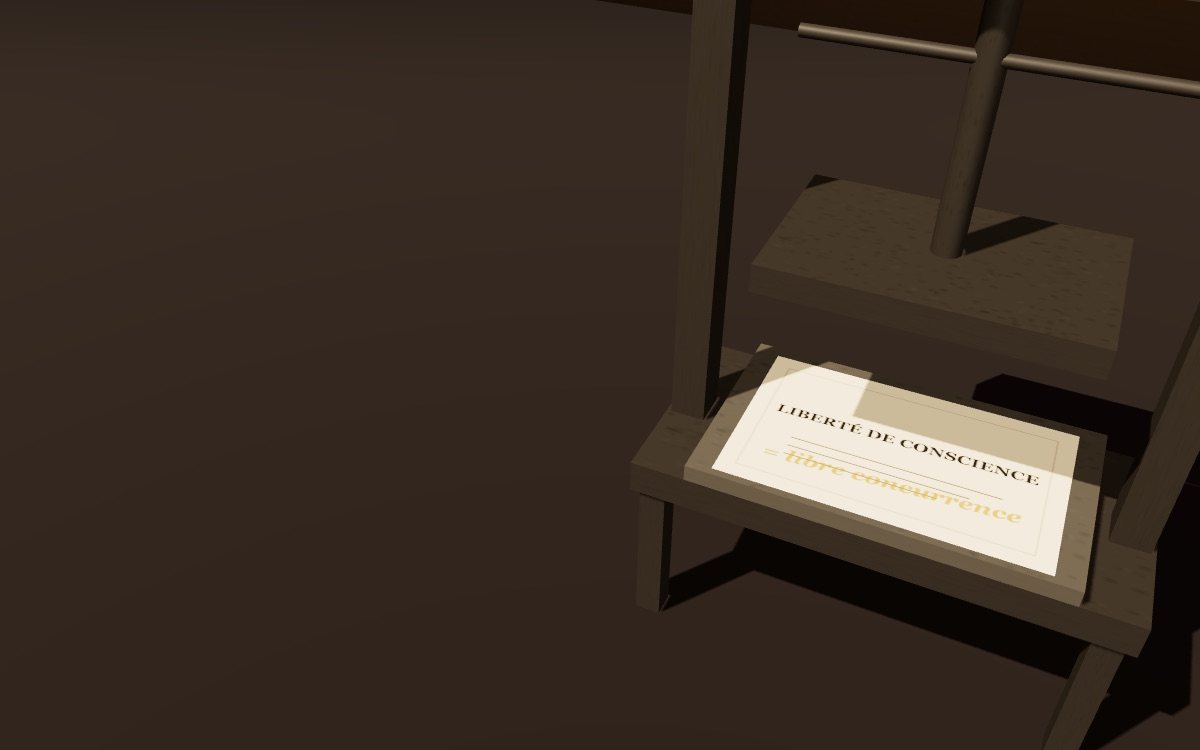
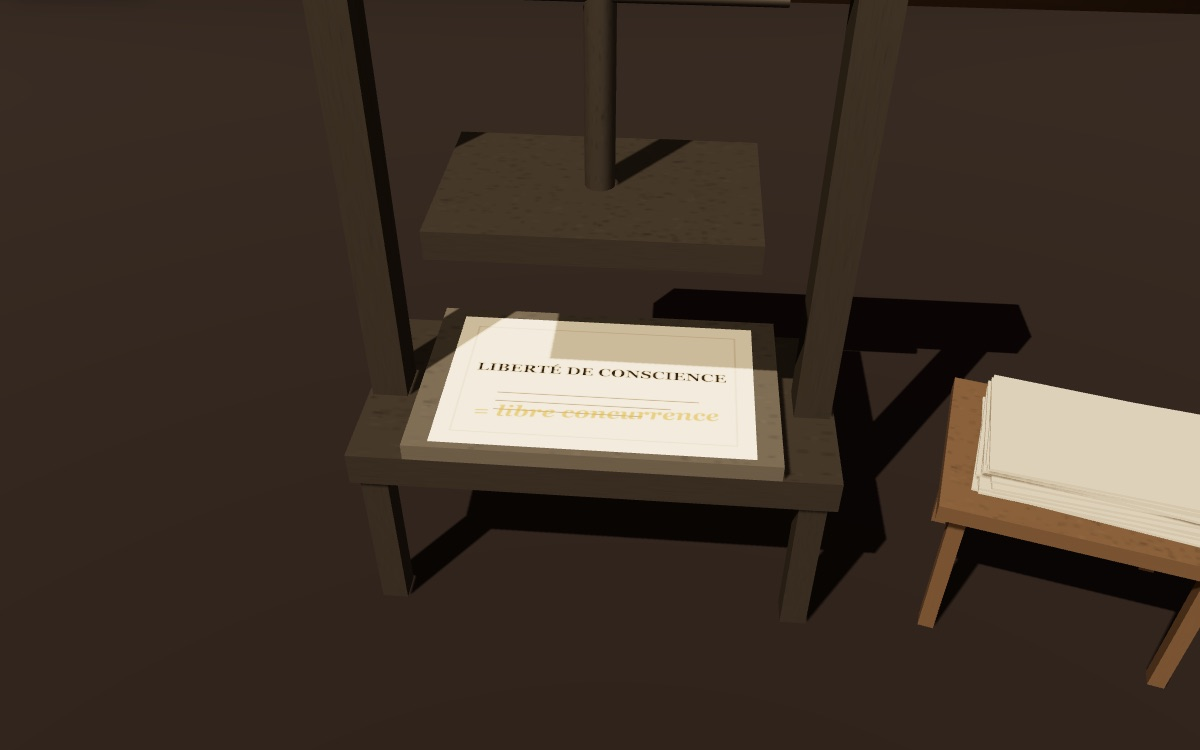
Glossaire : idees-dominantes réécrite selon la charte, direction artistique « les Tables de la Loi »

diff --git a/glossaire/mondes/idees-dominantes/essai.html b/glossaire/mondes/idees-dominantes/essai.html
@@ -1,49 +1,83 @@
-<!-- L'ESSAI — le corps de /glossaire/idees-dominantes. data-s="1" partout.
+<!-- L'ESSAI : le corps de /glossaire/idees-dominantes. data-s="1" partout
+     (le Manifeste tient en une seule page Wikisource).
+     Réécrit en octobre 2026 selon glossaire/mondes/CHARTE.md.
      La phrase « Les idées dominantes d’une époque… » est DÉLIBÉRÉMENT
      partagée avec /glossaire/lutte-des-classes : c'est la définition de la
      notion, et elle y est lue pour ce qu'elle dit de la conscience, là pour
      ce qu'elle dit de l'antagonisme. L'Idéologie allemande et la lettre
-     d'Engels à Mehring (1893) ne sont pas servies : paraphrasées et situées. -->
+     d'Engels à Mehring (1893) ne sont pas servies : paraphrasées et situées.
+     Les faits sur la Déclaration de 1789 (préambule, articles 2 et 17) et
+     sur le frontispice de l'Encyclopédie (Cochin, 1764 ; la Théologie qui
+     tourne le dos à la Vérité, d'après la description de Diderot) sont ceux
+     des notices des deux images. -->
 
 <section class="nt-sec" data-etape="eternelles" id="difficulte">
-<h2>Des vérités qui se disent éternelles</h2>
-<p>La thèse est l'une des plus citées du <i>Manifeste</i>, et l'une de celles dont on attend le moins qu'elle soit argumentée, tant elle semble aller de soi à ceux qui la reprennent comme à ceux qui la rejettent. Or le texte ne la pose pas comme un axiome&nbsp;: il la tire d'une réponse, et il faut partir de l'objection à laquelle elle répond pour mesurer sa portée. Les adversaires des communistes, écrit-il en leur prêtant la parole, admettent volontiers que les idées religieuses, morales, philosophiques et juridiques ont changé au cours de l'histoire&nbsp;; mais ils ajoutent&nbsp;:</p>
+<h2>La liberté et la justice ne sont-elles pas des vérités de tous les temps&nbsp;?</h2>
+<p class="nt-lead">C'est l'objection que le <i>Manifeste</i> prête à ses adversaires. La thèse des idées dominantes naît de la réponse qu'il lui fait, et c'est par elle qu'il faut commencer.</p>
+<p>La phrase sur les idées dominantes compte parmi les plus citées du <i>Manifeste</i>. On la cite le plus souvent seule, comme un axiome qui se passerait d'argument. Dans le texte, elle arrive au terme d'une discussion et sert à répondre. Marx et Engels font parler leurs adversaires entre guillemets. Ceux-ci concèdent que les idées religieuses, morales, philosophiques et juridiques se sont modifiées au cours de l'histoire, puis ils ajoutent&nbsp;:</p>
 <blockquote data-s="1" data-q="Il y a de plus des vérités éternelles, telles que la liberté, la justice, etc., qui sont communes à toutes les conditions sociales"><p>Il y a de plus des vérités éternelles, telles que la liberté, la justice, etc., qui sont communes à toutes les conditions sociales. Or, le communisme abolit les vérités éternelles, il abolit la religion et la morale au lieu de les constituer sur une nouvelle base […]</p></blockquote>
-<p>Toute la difficulté est là. L'objection n'est pas absurde&nbsp;: il est vrai que les mots de liberté et de justice traversent les époques, et qu'on voit mal une société qui s'en passerait. La réponse du texte ne consiste pas à nier que ces mots demeurent, mais à montrer que ce qu'ils désignent change avec les rapports sociaux qui les emploient — et que la croyance en leur éternité est elle-même un trait de toute classe dominante. Nous suivrons donc l'ordre de la réponse&nbsp;: d'abord la thèse générale, ensuite l'histoire qui l'établit, enfin ce qu'elle dit de la liberté bourgeoise.</p>
+<p>L'objection a de la force. Les mots de liberté et de justice se retrouvent d'une époque à l'autre, et l'on voit mal une société qui s'en passerait. Le <i>Manifeste</i> accorde que les mots demeurent. Il soutient que ce qu'ils désignent change avec les rapports sociaux de ceux qui les emploient, et que la croyance en leur éternité est elle-même un trait commun à toutes les classes qui ont dominé.</p>
+<p>On suivra l'ordre de la réponse. Le texte adresse d'abord un reproche à la bourgeoisie&nbsp;; il en tire une thèse générale sur la production des idées&nbsp;; il l'appuie sur une histoire très courte&nbsp;; il l'applique à la liberté moderne&nbsp;; il explique enfin pourquoi certaines formes de pensée semblent traverser les siècles.</p>
 </section>
 
 <section class="nt-sec" data-etape="ou" id="ou">
-<h2>Où le texte la pose&nbsp;: dans la réponse aux objections</h2>
-<p>La thèse vient dans la deuxième partie, là où le <i>Manifeste</i> répond aux reproches faits aux communistes, et cette place commande son sens. Avant même d'en venir à la religion et à la philosophie, le texte a répondu à ceux qui l'accusent de détruire la liberté, la culture et le droit, et il a formulé le principe dont la thèse sera l'application&nbsp;:</p>
+<h2>Que reprochent Marx et Engels à leurs adversaires&nbsp;?</h2>
+<p class="nt-lead">De prendre leurs propres idées pour des lois de la nature. Les bourgeois accusent les communistes de détruire la liberté, la culture et le droit&nbsp;; le texte leur répond que ces mots, chez eux, ont un contenu daté.</p>
+<p>La thèse se trouve dans la deuxième partie, «&nbsp;Prolétaires et communistes&nbsp;». Le <i>Manifeste</i> y passe en revue les reproches faits aux communistes&nbsp;: vouloir abolir la propriété, la famille, la patrie. Avant d'en venir à la religion et à la philosophie, il répond à ceux qui le jugent au nom de la liberté, de la culture et du droit, et il pose le principe dont la thèse sera l'application&nbsp;:</p>
 <blockquote data-s="1" data-q="Vos idées sont elles-mêmes les produits des rapports de la production et de la propriété bourgeoises, comme votre droit n’est que la volonté de votre classe érigée en loi"><p>Vos idées sont elles-mêmes les produits des rapports de la production et de la propriété bourgeoises, comme votre droit n’est que la volonté de votre classe érigée en loi […]</p></blockquote>
-<p>Le reproche adressé à la bourgeoisie n'est pas d'avoir des idées intéressées, mais d'<q data-s="1" data-q="ériger en lois éternelles de la nature et de la raison les rapports sociaux qui naissent de votre mode de production">ériger en lois éternelles de la nature et de la raison les rapports sociaux qui naissent de votre mode de production</q>. Et le texte ajoute que cette illusion n'est pas propre à la bourgeoisie&nbsp;: elle la partage avec toutes les classes régnantes disparues. Chacune a compris que la propriété antique ou féodale était historique, et chacune a tenu la sienne pour naturelle.</p>
-<p>La thèse générale suit, posée sous forme de question rhétorique&nbsp;: il ne faut pas un esprit bien profond pour comprendre <q data-s="1" data-q="que la conscience de l’homme change avec tout changement survenu dans ses relations sociales, dans son existence sociale">que la conscience de l'homme change avec tout changement survenu dans ses relations sociales, dans son existence sociale</q>. Marx et Engels l'avaient développée deux ans plus tôt dans les manuscrits de <i>L'Idéologie allemande</i>, où ils écrivaient en substance que la classe qui dispose des moyens de la production matérielle dispose aussi, du même coup, de ceux de la production intellectuelle. Ces manuscrits sont restés inédits jusqu'en 1932&nbsp;: le <i>Manifeste</i> est, pour ses premiers lecteurs, le lieu où la thèse paraît.</p>
+<p>Le reproche vise une illusion particulière. La bourgeoisie veut <q data-s="1" data-q="ériger en lois éternelles de la nature et de la raison les rapports sociaux qui naissent de votre mode de production">ériger en lois éternelles de la nature et de la raison les rapports sociaux qui naissent de votre mode de production</q>. Un mode de production, c'est la manière dont une société produit ses biens et répartit les moyens de les produire. Les rapports qui en naissent, par exemple le rapport entre un patron et un salarié, deviennent sous sa plume des lois de la raison, valables pour tous les hommes.</p>
+<p>La Déclaration des droits de 1789 en offre la forme la plus nette. Elle proclame des droits «&nbsp;naturels, inaliénables et sacrés&nbsp;», range la propriété parmi eux dès son article&nbsp;2 et la déclare, à l'article&nbsp;17, inviolable et sacrée. Le tableau de Le Barbier, en tête de cette page, la peint sur deux tables de pierre, à la manière des Tables de la Loi, sous un œil qui rayonne. Des droits nés d'une révolution s'y présentent comme s'ils venaient d'en haut.</p>
+<p>Le texte ajoute que la bourgeoisie partage cette illusion avec toutes les classes régnantes disparues. Il en montre le ressort par une remarque ironique&nbsp;: <q data-s="1" data-q="Ce que vous concevez pour la propriété antique, ce que vous comprenez pour la propriété féodale, il vous est défendu de l’admettre pour la propriété bourgeoise">ce que vous concevez pour la propriété antique, ce que vous comprenez pour la propriété féodale, il vous est défendu de l’admettre pour la propriété bourgeoise</q>. Chacun voit sans peine que les formes passées avaient une histoire. C'est la sienne qu'il tient pour naturelle.</p>
 </section>
 
 <section class="nt-sec" data-etape="production" id="distinction">
-<h2>La distinction&nbsp;: produire des choses, produire des idées</h2>
-<p>La thèse repose sur une analogie qu'il faut prendre au sérieux plutôt que comme une image. Le texte parle de <i>production</i> intellectuelle, et il la rapproche expressément de la production matérielle&nbsp;: <q data-s="1" data-q="Que démontre l’histoire de la pensée si ce n’est que la production intellectuelle se transforme avec la production matérielle">que démontre l'histoire de la pensée si ce n'est que la production intellectuelle se transforme avec la production matérielle</q>&nbsp;? D'où la phrase qui définit la notion&nbsp;:</p>
+<h2>Que veut dire qu'une idée est dominante&nbsp;?</h2>
+<p class="nt-lead">Une idée dominante est une idée qui prévaut&nbsp;: on l'enseigne, on la répète, elle passe pour évidente. Elle doit cette place à la classe qui la porte, et sa vérité n'en décide pas.</p>
+<p>La thèse générale tient en deux phrases. La première porte sur chacun de nous&nbsp;: il ne faut pas un esprit bien profond pour comprendre <q data-s="1" data-q="que la conscience de l’homme change avec tout changement survenu dans ses relations sociales, dans son existence sociale">que la conscience de l’homme change avec tout changement survenu dans ses relations sociales, dans son existence sociale</q>. La seconde passe à l'histoire&nbsp;: <q data-s="1" data-q="Que démontre l’histoire de la pensée si ce n’est que la production intellectuelle se transforme avec la production matérielle">que démontre l’histoire de la pensée si ce n’est que la production intellectuelle se transforme avec la production matérielle</q>&nbsp;? La définition suit aussitôt&nbsp;:</p>
 <blockquote data-s="1" data-q="Les idées dominantes d’une époque n’ont jamais été que les idées de la classe dominante"><p>Les idées dominantes d’une époque n’ont jamais été que les idées de la classe dominante.</p></blockquote>
-<p>La distinction qui fait le concept est entre les idées d'une époque et ses idées <i>dominantes</i>. Le texte ne dit pas que toutes les idées sont celles de la classe dominante, ce qui rendrait incompréhensible sa propre existence&nbsp;; il dit que celles qui prévalent, qui s'enseignent, qui passent pour évidentes, sont les siennes. La domination des idées est un fait de circulation, d'institutions, de moyens&nbsp;: une idée domine parce qu'elle est portée par ce qui domine, non parce qu'elle est plus vraie. Et c'est pourquoi le texte peut annoncer, à côté des idées dominantes, la formation d'idées nouvelles&nbsp;: lorsqu'on parle d'idées qui révolutionnent une société entière, on dit seulement que dans la vieille société se sont formés les éléments d'une nouvelle, et que <q data-s="1" data-q="la dissolution des vieilles idées marche de pair avec la dissolution des anciennes relations sociales">la dissolution des vieilles idées marche de pair avec la dissolution des anciennes relations sociales</q>.</p>
+<p>Le mot de production doit être pris au sérieux. Penser, écrire, enseigner et prêcher demandent du temps, des lieux et des moyens matériels&nbsp;: des presses, des écoles, des chaires, des journaux, et des gens qui en vivent. Marx et Engels avaient développé ce point dans les manuscrits de <i>L'Idéologie allemande</i> (1845-1846), restés inédits jusqu'en 1932. Ils y écrivaient en substance que la classe qui dispose des moyens de la production matérielle dispose du même coup de ceux de la production intellectuelle. Le <i>Manifeste</i> le dit plus brièvement à propos de l'éducation, que la société règle déjà par ses écoles et que les communistes veulent seulement <q data-s="1" data-q="arracher l’éducation à l’influence de la classe régnante">arracher l’éducation à l’influence de la classe régnante</q>.</p>
+<p>Le texte parle des idées <i>dominantes</i>, et le mot compte. Il n'affirme pas que toutes les idées d'une époque appartiennent à la classe qui domine. S'il le faisait, il ne pourrait pas rendre compte de lui-même, puisque le <i>Manifeste</i> est écrit contre les idées qui dominaient en 1848. Une idée domine parce qu'elle a pour elle ce qui domine&nbsp;: l'école, la chaire, la presse, l'autorité de ceux qui parlent. Elle peut être juste ou fausse. Sa place dans la société se règle ailleurs.</p>
 </section>
 
 <section class="nt-sec" data-etape="dissolution" id="mecanisme">
-<h2>Le mécanisme&nbsp;: une histoire des idées qui suit celle des classes</h2>
-<p>Le texte ne démontre pas la thèse par un raisonnement abstrait, mais par une histoire en trois moments, condensée en deux phrases. <q data-s="1" data-q="Quand l’ancien monde était à son déclin, les vieilles religions furent vaincues par la religion chrétienne">Quand l'ancien monde était à son déclin, les vieilles religions furent vaincues par la religion chrétienne</q>&nbsp;; puis, au dix-huitième siècle, les idées chrétiennes cédèrent la place aux idées philosophiques, au moment où la société féodale livrait sa dernière bataille à la bourgeoisie révolutionnaire. Chaque grande transformation des idées coïncide avec l'ascension d'une classe, et c'est cette coïncidence, non une causalité mécanique, que le texte donne à voir.</p>
-<p>Le troisième moment est le plus précis, et il porte sur les idées qui nous sont les plus proches. Les principes de tolérance que la philosophie des Lumières a opposés à l'Église se présentent comme des vérités de la raison&nbsp;; le texte en donne une autre lecture&nbsp;:</p>
-<blockquote data-s="1" data-q="Les idées de liberté religieuse et de liberté de conscience ne firent que proclamer le règne de la libre concurrence dans le domaine de la connaissance"><p>Les idées de liberté religieuse et de liberté de conscience ne firent que proclamer le règne de la libre concurrence dans le domaine de la connaissance.</p></blockquote>
-<p>La phrase ne dit pas que la liberté de conscience est une illusion ou une tromperie. Elle dit que sa forme — chacun libre de ses croyances comme chacun libre de ses échanges — est celle d'un monde où les individus se rencontrent comme des propriétaires privés sur un marché. Le même déplacement vaut pour la liberté en général&nbsp;: <q data-s="1" data-q="Par liberté, dans les conditions actuelles de la production bourgeoise, on entend la liberté du commerce, du libre-échange">par liberté, dans les conditions actuelles de la production bourgeoise, on entend la liberté du commerce, du libre-échange</q>. Le mot demeure, son contenu a une date. Et la culture elle-même, que la bourgeoisie accuse les communistes de vouloir détruire, <q data-s="1" data-q="n’est pour l’immense majorité, que le façonnement à devenir machine">n'est pour l'immense majorité, que le façonnement à devenir machine</q>.</p>
+<h2>Comment les idées d'une époque cèdent-elles la place à d'autres&nbsp;?</h2>
+<p class="nt-lead">Elles tombent en même temps que les rapports sociaux qui les portaient. Le <i>Manifeste</i> le montre par une histoire de deux phrases, où chaque changement d'idées accompagne la montée d'une classe.</p>
+<p>Les idées nouvelles ne viennent pas de nulle part. Quand on parle d'idées qui révolutionnent une société entière, dit le texte, on annonce seulement que des éléments d'une société nouvelle se sont formés dans l'ancienne, et que <q data-s="1" data-q="la dissolution des vieilles idées marche de pair avec la dissolution des anciennes relations sociales">la dissolution des vieilles idées marche de pair avec la dissolution des anciennes relations sociales</q>. Une manière de penser grandit avec la classe qui s'y reconnaît, à l'intérieur de l'ordre qu'elle va remplacer.</p>
+<p>Deux moments servent de preuve. <q data-s="1" data-q="Quand l’ancien monde était à son déclin, les vieilles religions furent vaincues par la religion chrétienne">Quand l’ancien monde était à son déclin, les vieilles religions furent vaincues par la religion chrétienne</q>. Puis, au dix-huitième siècle, les idées chrétiennes cédèrent la place aux idées philosophiques, au moment où la société féodale livrait sa dernière bataille à la bourgeoisie, alors révolutionnaire. Le lien que le texte établit est une coïncidence dans le temps. Une manière de penser l'emporte quand la classe qui la porte l'emporte, et le <i>Manifeste</i> ne dit rien de plus sur la façon dont l'une agit sur l'autre.</p>
+<p>Le second moment est celui que les philosophes du dix-huitième siècle ont eux-mêmes mis en image. Le frontispice de l'<i>Encyclopédie</i>, dessiné par Charles-Nicolas Cochin en 1764, montre la Vérité dans la lumière, la Raison qui lui lève son voile et la Théologie qui, à ses pieds, lui tourne le dos. La scène se donne pour la victoire de la vérité sur l'erreur, hors de toute date. Le <i>Manifeste</i> la replace dans une bataille entre la noblesse et la bourgeoisie.</p>
+<div data-planche="encyclopedie"></div>
 </section>
 
 <section class="nt-sec" data-etape="concurrence" id="ouvre">
-<h2>Ce que le concept ouvre&nbsp;: des formes qui durent plus que leurs contenus</h2>
-<p>Si les idées changent avec les classes, pourquoi l'objection a-t-elle raison de noter que la religion, la morale et la philosophie se maintiennent à travers les transformations&nbsp;? La réponse du texte est la partie la plus fine de l'argument, et elle empêche de réduire la thèse à un relativisme. L'histoire de toutes les sociétés passées est celle d'antagonismes de classes aux formes diverses&nbsp;; mais l'exploitation d'une partie de la société par l'autre est un fait commun à tous les siècles. Il n'est donc pas étonnant que la conscience sociale de tous les âges se soit mue dans certaines formes communes, <q data-s="1" data-q="des formes de conscience qui ne se dissoudront complètement qu’avec l’entière disparition de l’antagonisme des classes">des formes de conscience qui ne se dissoudront complètement qu'avec l'entière disparition de l'antagonisme des classes</q>.</p>
-<p>L'apparente éternité des idées reçoit ainsi son explication&nbsp;: ce qui demeure n'est pas une vérité hors de l'histoire, c'est la division en classes elle-même, qui a toujours existé dans l'histoire écrite et qui imprime à la conscience des formes durables. On comprend alors la conclusion que le texte en tire pour la révolution qu'il annonce&nbsp;: puisqu'elle est <q data-s="1" data-q="la rupture la plus radicale avec les rapports de propriété traditionnels">la rupture la plus radicale avec les rapports de propriété traditionnels</q>, il n'est pas étonnant qu'elle rompe de la façon la plus radicale avec les idées traditionnelles. La thèse ne dit pas que les idées ne comptent pas&nbsp;; elle dit qu'on ne change pas durablement celles d'une société sans changer ce qui les rend dominantes. C'est aussi ce qu'établit, par un autre chemin, la page du <a href="/glossaire/pouvoir-politique">pouvoir politique</a>.</p>
+<h2>Que devient la liberté quand on lui rend sa date&nbsp;?</h2>
+<p class="nt-lead">Elle prend la forme du marché. La liberté de conscience proclame la libre concurrence dans le domaine de la connaissance, et la liberté, dans la bouche du bourgeois de 1848, signifie la liberté du commerce.</p>
+<p>La phrase la plus précise de la section porte sur les idées dont nous sommes encore les héritiers&nbsp;:</p>
+<blockquote data-s="1" data-q="Les idées de liberté religieuse et de liberté de conscience ne firent que proclamer le règne de la libre concurrence dans le domaine de la connaissance"><p>Les idées de liberté religieuse et de liberté de conscience ne firent que proclamer le règne de la libre concurrence dans le domaine de la connaissance.</p></blockquote>
+<p>Là où une Église avait le monopole du vrai, la liberté de conscience met les croyances côte à côte. Chacun offre la sienne, chacun choisit, et l'État garantit les règles sans prendre parti, comme il garantit le marché sans choisir entre les marchands. La phrase laisse entière la valeur de cette liberté. Elle en donne la forme, celle d'un monde où les individus se rencontrent en propriétaires privés, chacun maître de ses biens et de ses opinions.</p>
+<p>Le même déplacement vaut pour la liberté en général&nbsp;: <q data-s="1" data-q="Par liberté, dans les conditions actuelles de la production bourgeoise, on entend la liberté du commerce, du libre-échange">par liberté, dans les conditions actuelles de la production bourgeoise, on entend la liberté du commerce, du libre-échange</q>. Le texte dit aussi d'où ce contenu tire son sens. Les grands mots sur le libre-échange n'en ont que <q data-s="1" data-q="par contraste au commerce entravé, au bourgeois asservi du moyen âge">par contraste au commerce entravé, au bourgeois asservi du moyen âge</q>. La culture, de son côté, que la bourgeoisie accuse les communistes de vouloir détruire, <q data-s="1" data-q="n’est pour l’immense majorité, que le façonnement à devenir machine">n’est pour l’immense majorité, que le façonnement à devenir machine</q>. Le mot demeure, son contenu a une date et une classe.</p>
+<div class="nt-ex">
+<p class="nt-ex-t">Un exemple</p>
+<p>Prenons deux hommes qui disent «&nbsp;liberté&nbsp;» à soixante ans d'écart. Le premier est un maître artisan d'une ville corporative du dix-huitième siècle. Il ne peut ni s'établir sans l'accord de sa corporation, ni fabriquer autrement qu'elle ne le prescrit. Pour lui, la liberté a un contenu précis&nbsp;: produire et vendre sans demander de permission. C'est ce contenu que la bourgeoisie inscrit dans ses déclarations, et il est réel.</p>
+<p>Le second est un ouvrier de filature en 1848. Il est libre au même sens&nbsp;: personne ne l'oblige à travailler pour tel patron plutôt que pour tel autre. Seulement il ne possède rien d'autre que sa force de travail, si bien que sa liberté consiste à la vendre ou à ne pas manger. Le mot est le même dans les deux bouches. Ce qu'il désigne a changé avec la place de celui qui le prononce. Les deux personnages sont construits pour l'exemple&nbsp;; le contraste avec le «&nbsp;commerce entravé&nbsp;» est celui du texte.</p>
+</div>
 </section>
 
 <section class="nt-sec" data-etape="lectures" id="lectures">
-<h2>Les lectures et les contresens</h2>
-<p>Le premier contresens fait de la thèse une théorie du complot&nbsp;: la classe dominante inventerait des idées pour tromper les autres. Le texte ne dit rien de tel, et la notion perd son intérêt si on l'y ramène. Les classes dominantes croient à leurs idées&nbsp;; elles les tiennent sincèrement pour naturelles et rationnelles, et c'est précisément ce que le texte leur reproche d'<i>ériger en lois éternelles</i>. Une domination qui reposerait sur un mensonge conscient serait fragile&nbsp;; celle que le texte décrit est solide parce qu'elle est vécue comme une évidence. On retrouvera ce mécanisme, sous une forme plus développée, à la page du <a href="/glossaire/fetichisme">fétichisme</a>&nbsp;: une apparence qui n'est pas une erreur, mais la manière dont un rapport social se présente.</p>
-<p>Le deuxième contresens est celui du reflet&nbsp;: les idées ne seraient qu'un décalque passif de l'économie, sans efficacité propre. La lettre du texte peut y prêter, puisqu'il parle de conscience qui <i>change avec</i> l'existence sociale&nbsp;; mais toute la stratégie du <i>Manifeste</i> la dément, qui consacre sa troisième partie à combattre des doctrines socialistes, et qui assigne aux communistes la tâche d'éveiller chez les ouvriers une conscience claire de l'antagonisme. Engels, dans une lettre à Franz Mehring de 1893, reconnaîtra que Marx et lui avaient, par nécessité polémique, trop insisté sur la dérivation des idées à partir des faits économiques, au détriment de la manière dont elles se forment. Nous tenons que la thèse est une thèse sur la <i>domination</i> des idées, non sur leur origine unique.</p>
-<p>Le troisième contresens retourne la thèse contre ses auteurs&nbsp;: si toute idée dominante est celle d'une classe, la théorie de Marx et d'Engels, écrite par deux fils de bourgeois, ne serait qu'une idée de classe parmi d'autres. Le texte a prévu l'objection, et il y répond par un fait plutôt que par un principe. Au moment où la lutte approche de l'heure décisive, une fraction de la classe régnante s'en détache, et notamment <q data-s="1" data-q="cette partie des idéologues bourgeois parvenue à l’intelligence théorique du mouvement historique dans son ensemble">cette partie des idéologues bourgeois parvenue à l'intelligence théorique du mouvement historique dans son ensemble</q>. La thèse n'interdit donc pas de penser contre sa classe&nbsp;; elle dit à quelles conditions historiques cela devient possible, et elle n'en exempte pas ceux qui l'énoncent.</p>
+<h2>Pourquoi certaines idées semblent-elles éternelles, et quels contresens éviter&nbsp;?</h2>
+<p class="nt-lead">Parce que la division en classes traverse elle-même toute l'histoire connue&nbsp;: elle imprime à la conscience des formes durables. La thèse se lit mal dès qu'on en fait une théorie du complot, une théorie du reflet ou un relativisme.</p>
+<p>L'objection avait un dernier argument&nbsp;: la religion, la morale et la philosophie se maintiennent à travers les transformations. Le <i>Manifeste</i> le prend au sérieux. Les antagonismes de classes ont changé de forme d'une époque à l'autre, mais l'exploitation d'une partie de la société par l'autre est un fait commun à tous les siècles passés. Il n'est donc pas étonnant que la conscience de tous les âges se soit mue dans certaines formes communes, <q data-s="1" data-q="des formes de conscience qui ne se dissoudront complètement qu’avec l’entière disparition de l’antagonisme des classes">des formes de conscience qui ne se dissoudront complètement qu’avec l’entière disparition de l’antagonisme des classes</q>.</p>
+<p>L'apparente éternité des idées reçoit ainsi son explication. Ce qui dure, c'est la division en classes, et c'est elle qui donne aux idées un air de vérité hors du temps. Le texte en tire une conséquence pour la révolution qu'il annonce&nbsp;: puisqu'elle est <q data-s="1" data-q="la rupture la plus radicale avec les rapports de propriété traditionnels">la rupture la plus radicale avec les rapports de propriété traditionnels</q>, elle rompra de la façon la plus radicale avec les idées traditionnelles. On ne change pas durablement les idées d'une société sans changer ce qui les rend dominantes&nbsp;; la page du <a href="/glossaire/pouvoir-politique">pouvoir politique</a> le montre par un autre chemin.</p>
+<p>Trois lectures s'écartent du texte. La première rejoint une erreur que la page du <a href="/glossaire/fetichisme">fétichisme</a> corrige aussi&nbsp;: une apparence peut correspondre à ce qui se passe et tenir sans que personne mente. La seconde a été discutée par Engels lui-même. Dans une lettre à Franz Mehring de 1893, il reconnaît que Marx et lui ont d'abord mis l'accent sur la dérivation des idées à partir des faits économiques, au point de négliger la manière dont ces idées se forment. Nous lisons donc la thèse comme une thèse sur la domination des idées, qui laisse ouverte la question de leur genèse.</p>
+<div class="nt-cs">
+<p><span class="nt-cs-k">On lit souvent</span> La classe dominante inventerait des idées pour tromper les autres, comme on monte une propagande.</p>
+<p><span class="nt-cs-k">Ce que dit le texte</span> Les classes dominantes croient à leurs idées. Elles les tiennent sincèrement pour naturelles et rationnelles, et c'est ce que le <i>Manifeste</i> leur reproche&nbsp;: les ériger en lois éternelles. Une domination fondée sur un mensonge conscient serait fragile&nbsp;; celle-ci tient parce qu'elle est vécue comme une évidence.</p>
+</div>
+<div class="nt-cs">
+<p><span class="nt-cs-k">On lit souvent</span> Les idées ne seraient qu'un reflet passif de l'économie, sans effet propre sur l'histoire.</p>
+<p><span class="nt-cs-k">Ce que dit le texte</span> Le <i>Manifeste</i> combat des doctrines dans toute sa troisième partie et donne aux communistes la tâche d'éveiller chez les ouvriers une conscience claire de l'antagonisme. Un texte qui croirait les idées sans effet ne prendrait pas cette peine.</p>
+</div>
+<div class="nt-cs">
+<p><span class="nt-cs-k">On lit souvent</span> Si toute idée dominante est celle d'une classe, la théorie de Marx et d'Engels, deux fils de bourgeois, n'est qu'une idée de classe parmi d'autres, et rien n'est vrai.</p>
+<p><span class="nt-cs-k">Ce que dit le texte</span> Le <i>Manifeste</i> répond par un fait. Quand la lutte approche de l'heure décisive, une fraction de la classe régnante s'en détache, et notamment <q data-s="1" data-q="cette partie des idéologues bourgeois parvenue à l’intelligence théorique du mouvement historique dans son ensemble">cette partie des idéologues bourgeois parvenue à l’intelligence théorique du mouvement historique dans son ensemble</q>. La thèse dit à quelles conditions on peut penser contre sa classe, et elle n'en exempte pas ceux qui l'énoncent.</p>
+</div>
 </section>

diff --git a/glossaire/mondes/idees-dominantes/monde.js b/glossaire/mondes/idees-dominantes/monde.js
@@ -170,10 +170,10 @@ window.LM_MONDE = function (canvas) {
     dist = lerp(dist, 3.6, st.zoom); haut = lerp(haut, 2.9, st.zoom); cy = lerp(cy, 1.05, st.zoom); az = lerp(az, 0.08, st.zoom);
     var cible = new THREE.Vector3(lerp(lerp(0, 0.55, st.pile), 0, st.zoom), cy, 0);
     camera.position.set(cible.x + Math.sin(az) * dist + 0.03 * Math.sin(TT * 0.23), cy + haut + 0.02 * Math.sin(TT * 0.31), Math.cos(az) * dist);
-    var large = (canvas.clientWidth || 0) >= 1100;
-    var fwd = new THREE.Vector3().subVectors(cible, camera.position).normalize();
-    var right = new THREE.Vector3().crossVectors(fwd, new THREE.Vector3(0, 1, 0)).normalize();
-    aim.copy(cible).addScaledVector(right, large ? -lerp(0.17, 0.3, st.zoom) * camera.position.distanceTo(cible) : 0);
+    /* la scène est une figure posée en bas de page (oct. 2026) : plus de
+       colonne de texte à dégager, on vise le sujet lui-même, à toutes les
+       largeurs (l'image fixe, photographiée à 1200 px, aussi). */
+    aim.copy(cible);
     camera.lookAt(aim);
     render();
   }
